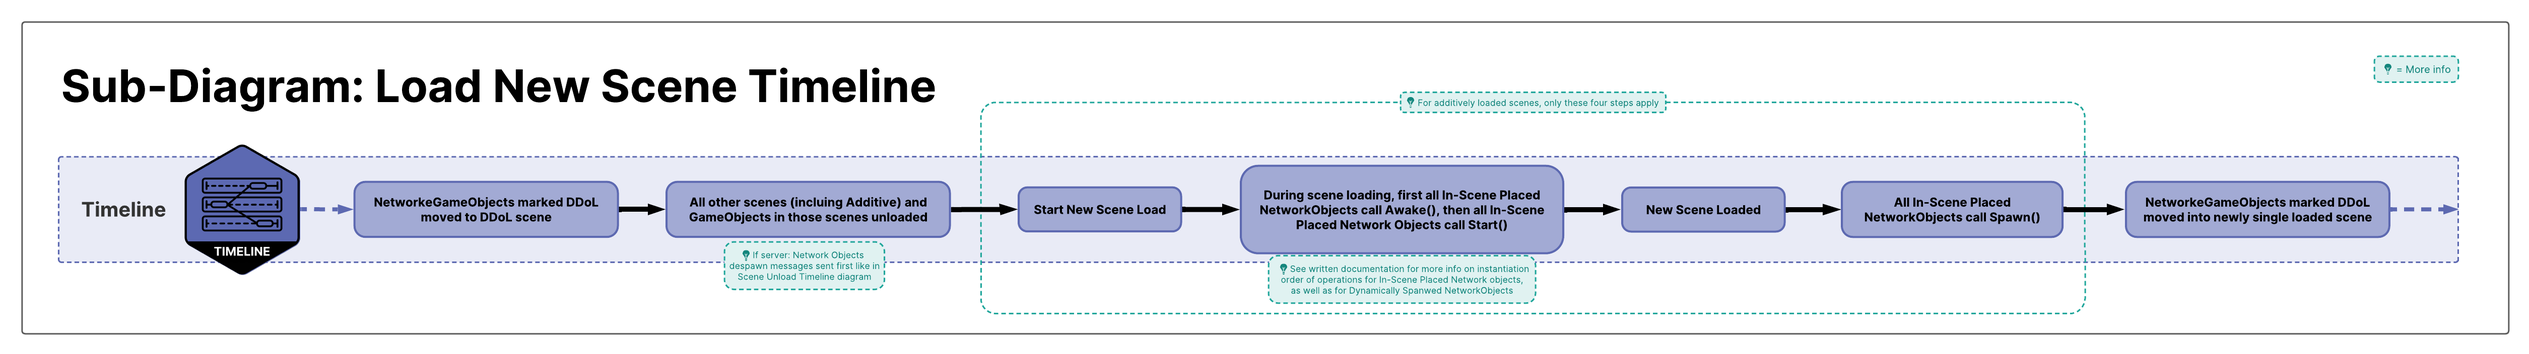
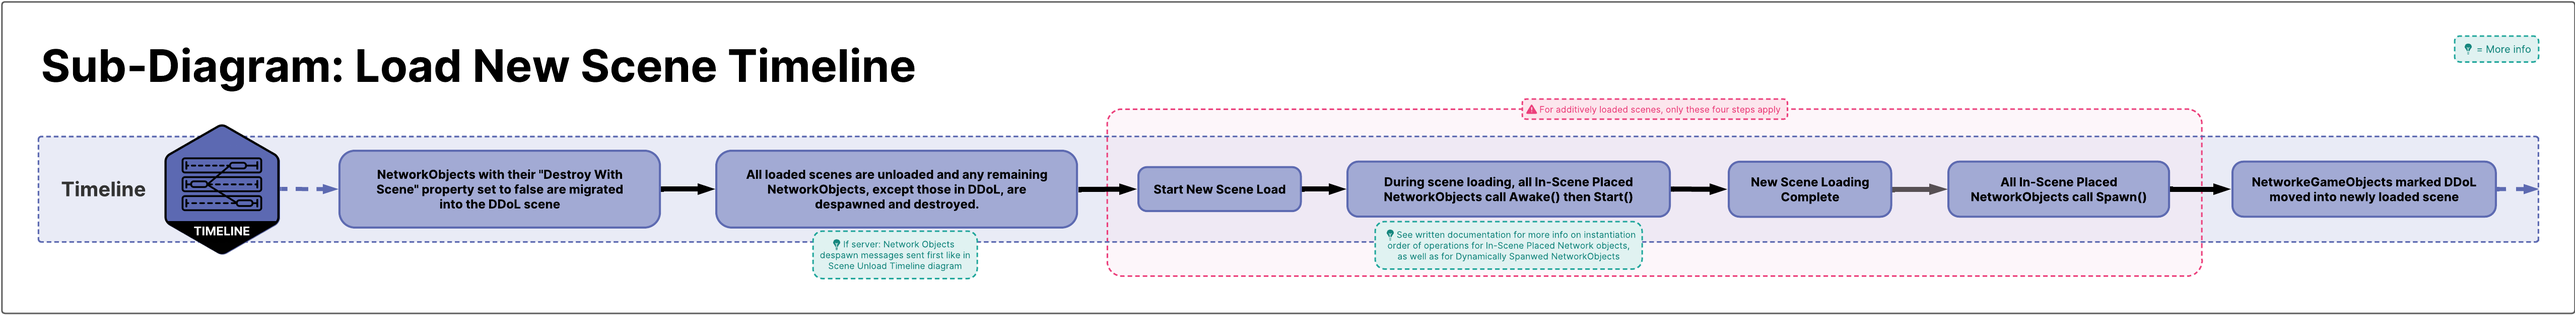
update
Updated the LoadNewSceneTimeline image.
Updated the text copy referring to the LoadNewSceneTimeline image within the timing considerations document.
Started working on the inscene-placed-networkobjects document's content.

diff --git a/docs/basics/scenemanagement/inscene-placed-networkobjects.md b/docs/basics/scenemanagement/inscene-placed-networkobjects.md
@@ -3,3 +3,70 @@ id: inscene-placed-networkobjects
 title: In-Scene (Placed) NetworkObjects
 sidebar_label: In-Scene NetworkObjects
 ---
+
+## Introduction
+At this point, you have most likely run across the term "in-scene placed NetworkObject" or "in-scene NetworkObject" several times.  An in-scene placed `NetworkObject` means a `GameObject` with a `NetworkObject` component was added to a scene from within the editor. 
+
+
+### In-Scene Placed vs Dynamically Spawned
+The instantiation of an in-scene placed `NetworkObject` is handled during the loading of the scene.  Once the scene is loaded, an in-scene `NetworkObject` will be automatically spawned.  Prior to being spawned, during the scene loading process, both the `Awake` and `Start` methods are invoked.
+
+:::important
+In comparison, a "dynamically spawned" `NetworkObject` is when a "Network(ed) Prefab" is instantiated and spawned during runtime by code specific to your project.  `NetworkBehaviour.OnNetworkSpawn` is invoked first then `Awake` and then `Start`.  The order in which `NetworkBehaviour.OnNetworkSpawn` is invoked relative to these two methods is important to remember if you are initializing any form of Netcode related properties within `Awake` or `Start` when using the same Network Prefab for both in-scene placed and dynamically spawned `NetworkObject`s.  
+:::
+
+## Using In-Scene Placed `NetworkObject`s
+Since there are additional complexities involved with in-scene placed `NetworkObject`s, some use cases are more easily achieved through dynamically spawned `NetworkObjects` or through a combination of both types. While Netcode for GameObjects has made many improvements with in-scene placed `NetworkObjects`, there are still special edge case scenarios that you have to take into consideration.
+
+Using In-scene placed `NetworkObject`s for netcode management oriented  tasks that typically don't involve despawning and respawning the in-scene placed `NetworkObject` or parenting it under a dynamically spawned `NetworkObject`, is recommended and the least complex way to use in-scene placed `NetworkObjects`.  
+
+### Static Objects
+There are many scenarios where you might just need to use the in-scene placed `NetworkObject` to keep track of when a door is opened, a button pushed, a lever pulled, and any other "toggle oriented" type of state.  This is what we consider "static objects".  They are only "despawned" when the associated scene is unloaded (i.e. statically spawned while the scene is loaded) and would never be migrated to another scene or parented under another `NetworkObject`.  This usage pattern is possibly the least complex ways to use an in-scene placed `NetworkObject`.
+
+### Netcode Managers
+An in-scene placed `NetworkObject` used as a manager could range from handling game states to a `NetworkObject` spawn manager (pooled or not). Typically, a manager will stay instantiated and spawned as long as the scene it was placed within remains loaded.  For scenarios where you want to keep a global game state, the recommended solution is to place the in-scene `NetworkObject` in an additively loaded scene that remains loaded for the duration of your network game session.  
+
+If you are using "Scene Switching" (i.e. loading a scene in LoadSceneMode.Single), then you can migrate the in-scene placed `NetworkObject` into the DDoL by sending its `GameObject` to the DDoL like in the code snippet provided below:
+
+```csharp
+private void Start()
+{
+    // Do not use this for Dynamically spawned NetworkObjects
+    DontDestroyOnLoad(gameObject);
+}
+```
+:::warning
+Once migrated into the DDoL, migrating the in-scene placed `NetworkObject` back into a different scene after it has already been spawned will cause soft synchronization errors with late joining clients.  Once in the DDoL it should stay in the DDoL.  This is only for scene switching, if you are not using scene switching then it is recommended to use an additively loaded scene and keep that scene loaded for as long as you wish to persist the in-scene placed `NetworkObject`(s) in question.
+:::
+
+While using an in-scene placed `NetworkObject` as a manager does have some complexities involved when you wish to persist it while also using "Scene Switching", this is still considered one of the least complex ways to use an in-scene placed `NetworkObject`.
+
+### Complex In-Scene NetworkObject Managers
+The most common mistake when using an in-scene placed `NetworkObject` is when you start trying to use it as if it was a dynamically spawned `NetworkObject`. When trying to decide if you should use an in-scene place or dynamically spawned `NetworkObject`, you should ask yourself the following questions:
+- Will it be spawned and despawned more than once?
+- Could it be parented, at runtime, under another `NetworkObject`?
+    - Does the parent exist in a different scene than the originating scene of the in-scene placed `NetworkObject'?
+- Excluding any special case DDoL scenarios, will it be moved into another scene other than the originating scene?
+
+If you answered yes to any of the above questions, then perhaps an in-scene placed `NetworkObject` is not the right choice for the feature you are trying to implement.  However, now you need to decide whether your feature requires a companion in-scene placed `NetworkObject` or not...right?  
+
+Actually, sometimes the best answer is to pick both!
+
+**A Hybrid Use Case Scenario**
+Imagine your project requires you to create some form of object that could be either consumed by players (i.e. health) or picked up (weapons, items, etc). The most common tendency is to just make a Network Prefab and then create an in-scene placed instance of that Network Prefab in your scene. Of course, if you want to change what is being consumed or picked up then you will most likely need to create a new Network Prefab with the different art assets for your new consumable or item.  Additionally, you most likely won't be able to just "plug in" the unique item or consumable Network Prefab into say a pooled spawn manager because it is designed with the in-scene placed instantiation flow (i.e. Start and Awake are invoked prior to it being spawned) which can sometimes become problematic.
+
+However, there is another way to accomplish the very same thing while keeping a clear defining line between dynamically spawned and in-scene placed `NetworkObject`s. As opposed to lumping everything into a single NetworkPrefab and handling the additional complexities involved with in-scene placed `NetworkObject`s, you could create two Network Prefabs:
+
+1. A consumable or item Network Prefab: this will be dynamically spawned and so you can re-use this Network Prefab with any spawn manager (pooled or single).
+2. A "single spawn manger": this will spawn the consumable or item Network Prefab.  The single-spawn manager could spawn the dynamically spawned `NetworkObject` at its exact location with an option to use the same rotation and scale or could have a list of GameObjects that are used only as spawn points.
+
+Using this approach allows you to:
+1. Re-use the same single spawn manager with any other Network Prefab registered with the `NetworkManager`
+2. Not worry about the complexities involved with treating an in-scene placed `NetworkObject` like a dynamically spawned one.
+
+
+
+(Reference Object Spawning-->Pooled Dynamic Spawning example)
+
+
+

diff --git a/docs/basics/scenemanagement/timing-considerations.md b/docs/basics/scenemanagement/timing-considerations.md
@@ -91,7 +91,7 @@ How you load scenes is really up to your project/design requirements.
 ## Load New Scene Timeline (Sub-Diagram)
 Both scene loading diagrams (Additive and Single) refer to the below sub-diagram that provides additional details of the scene loading process.
 :::important
-When looking at the below sub-diagram, both single and additive scene loading modes use close to the exact same flow with the exception that additively loaded scenes only flow through the four middle steps that are outlined by the green dashed lines.  When loading a scene additively, no other scenes are unloaded nor are any NetworkObjects moved into the DDoL temporarily. This setting, by default, is true for dynamically spawned `NetworkObject`s unless otherwise specified when using `NetworkObject.Spawn`, `NetworkObject.SpawnWithOwnership`, or `NetworkObject.SpawnAsPlayerObject`.  In-scene placed `NetworkObject`'s, by default, will be destroyed with the scene that instantiated them.  At any point, within a `NetworkBehaviour` you can change the `NetworkObject.DestroyWithScene` property.
+When looking at the below sub-diagram, both single and additive scene loading modes use close to the exact same flow with the exception that additively loaded scenes only flow through the four middle steps that are grouped together by the light red filled region highlighted by red dashed lines.  When loading a scene additively, no other scenes are unloaded nor are any NetworkObjects moved into the DDoL temporarily. This setting, by default, is true for dynamically spawned `NetworkObject`s unless otherwise specified when using `NetworkObject.Spawn`, `NetworkObject.SpawnWithOwnership`, or `NetworkObject.SpawnAsPlayerObject`.  In-scene placed `NetworkObject`'s, by default, will be destroyed with the scene that instantiated them.  At any point, within a `NetworkBehaviour` you can change the `NetworkObject.DestroyWithScene` property.
 :::
 
 ![image](images/LoadNewSceneTimeline.png)
